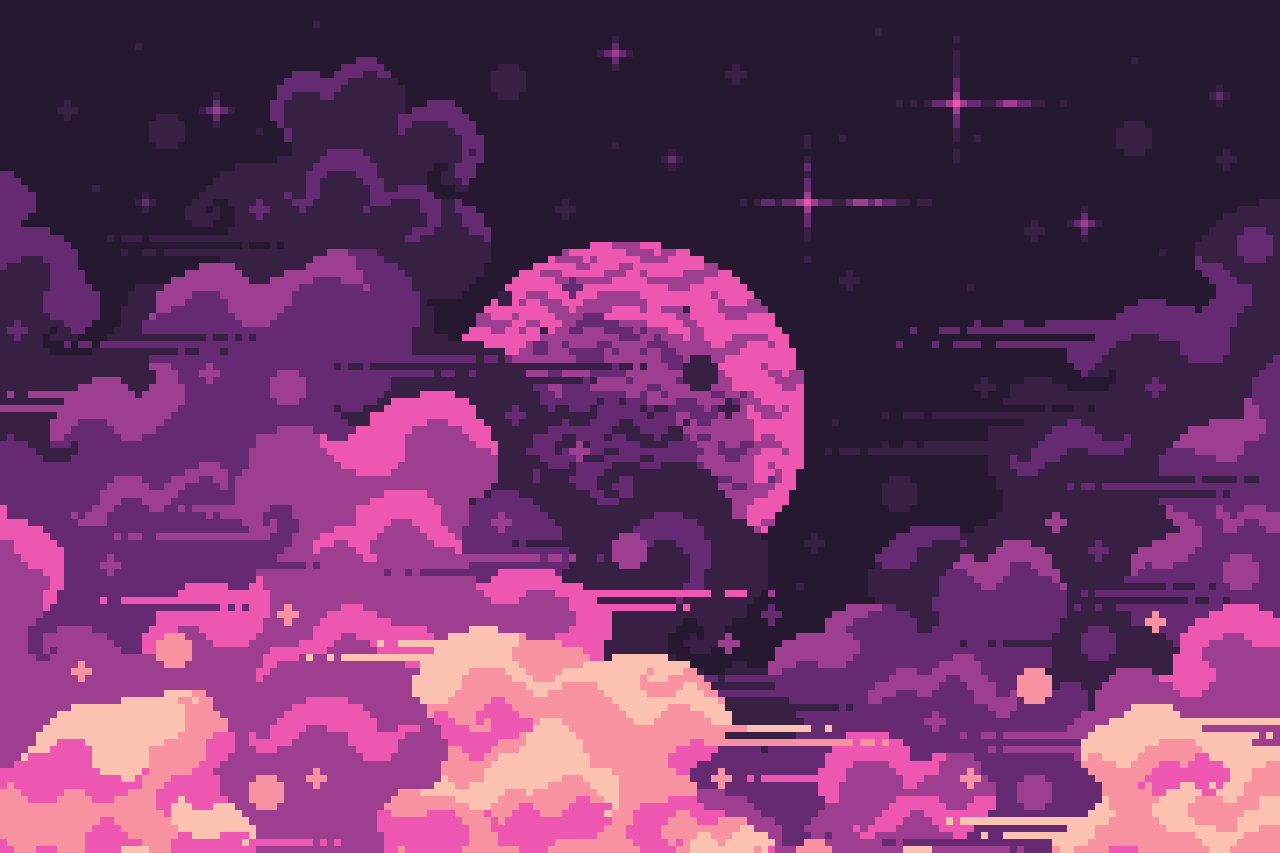
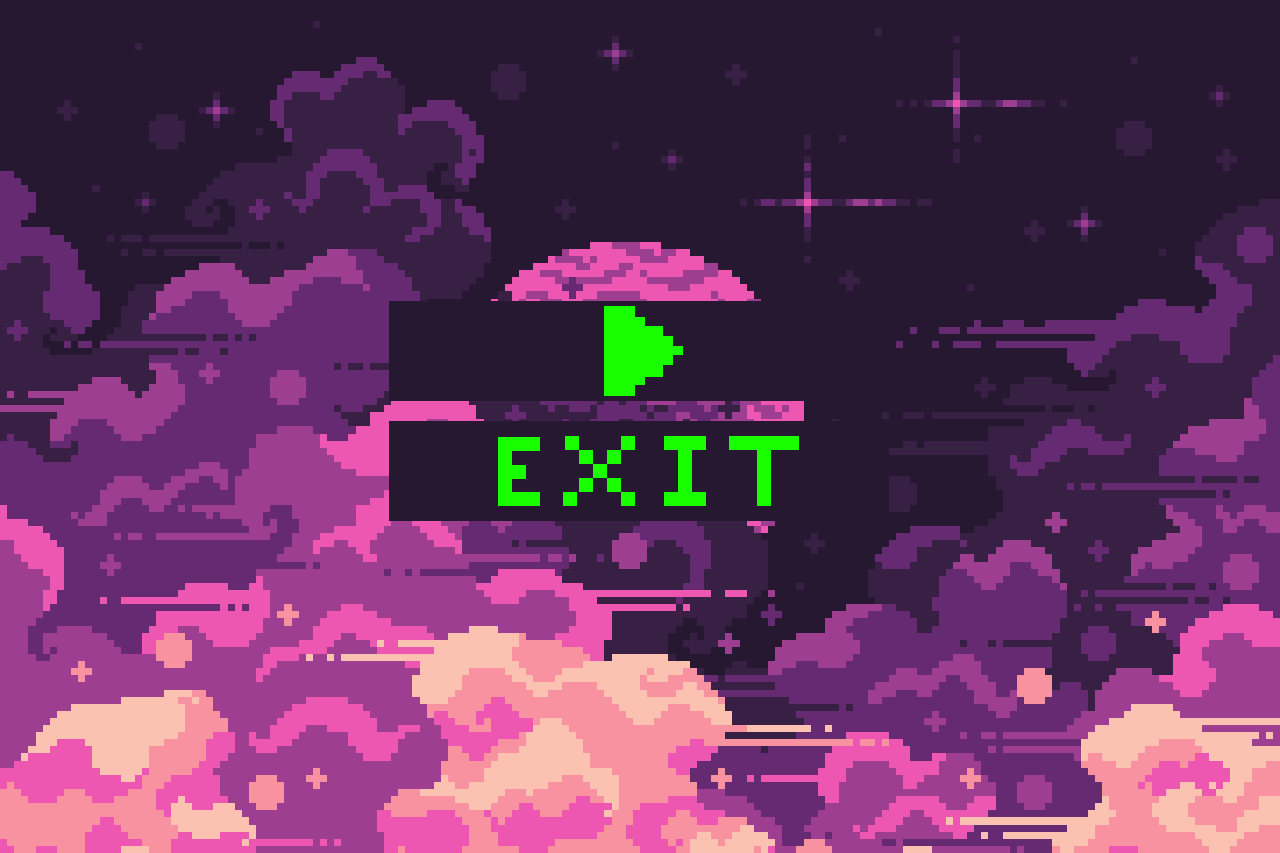
Menu buttons fixed

Changed region(s): [[0.2812, 0.3353, 0.625, 0.6096]]

diff --git a/Kurczaki/Button.cpp b/Kurczaki/Button.cpp
@@ -6,13 +6,11 @@ void Button::initVariables()
 
 void Button::initShape()
 {
-	if (this->texture == 1) {
-		this->btnTexture.loadFromFile("./assets/buttonPlay.png");
-		this->btnTexture.setSmooth(true);
-		this->sprite.setTexture(this->btnTexture);
-		this->sprite.setTextureRect(sf::IntRect(0, 0, this->size.x, this->size.y));
-		this->sprite.setPosition(this->position);
-	}
+
+	this->btnTexture.loadFromFile("./assets/buttonExit.png");
+	this->sprite.setTexture(this->btnTexture);
+	this->sprite.setTextureRect(sf::IntRect(0, 0, this->size.x, this->size.y));
+	this->sprite.setPosition(this->position);
 }
 
 Button::Button(sf::Vector2f newPosition, int newTexture, sf::Vector2f newSize, std::string newName, sf::RenderWindow& window)

diff --git a/Kurczaki/main.cpp b/Kurczaki/main.cpp
@@ -22,9 +22,12 @@ int main() {
 			menu.render();
 
 		}
-		else {
+		else if (windowHandler.get_renderState() == 2) {
 			game.update();
 			game.render();
+		}
+		else if (windowHandler.get_renderState() == 3) {
+
 		}
 	}
 	return 0;

diff --git a/Kurczaki/Menu.cpp b/Kurczaki/Menu.cpp
@@ -74,9 +74,5 @@ void Menu::render()
 
 	this->renderBackground();
 
-	for (auto& b : this->buttons) {
-		b.render();
-	}
-
 	m_window.display();
 }
